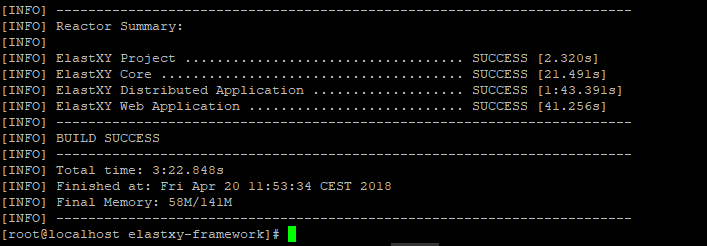
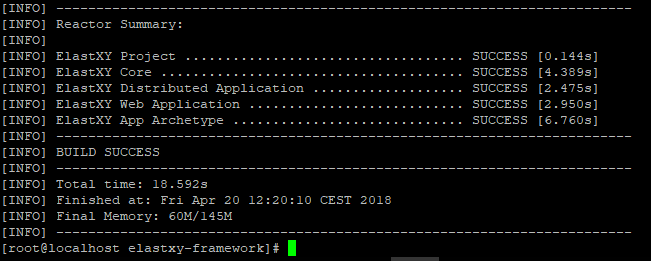
Minor fixes to tutorial.

Changed region(s): [[0.0, 0.0, 0.9831, 0.9959], [0.553, 0.9675, 0.6759, 1.0]]

diff --git a/tutorials.md b/tutorials.md
@@ -36,12 +36,11 @@ It'll take a while, as there are many dependencies for enabling all framework fe
 
 Now you should have all ElastXY artifacts in your local Maven repo. Congratulations! :)
 
-(And maybe you already spotted an ASCII representations of system evolution as long as tests were executed..)
 
 ## Single Colony Tutorial
 *Approx time: 10-15'*
 
-### Build your own local StartApp
+### Build your own local first app: MathXY
  
 The example will show you a simple showcase `Application`, and how to create your own project for a local (non distributed) env.
 
@@ -57,7 +56,7 @@ You can start defining your own by creating a Maven project from a blueprint by 
 
 `mvn archetype:generate -DarchetypeGroupId=org.elastxy -DarchetypeArtifactId=elastxy-app-archetype -DarchetypeVersion=0.1.0-SNAPSHOT`
 
-When prompted, insert "com.acme" as groupId and "ElastXYApp" as artifactId, leaving default package and version.
+When prompted, insert "com.acme" as groupId and "MathXY" as artifactId, leaving default package and version (by always hitting Enter).
 
 Now you should see a simple Maven project structure, bundling an initial example `Application`.
 
@@ -85,24 +84,26 @@ And, of course you can start playing with other parameters around, if you please
 
 The `Experiment` is where the execution `Environment` resides, controls program flow until ended, and returns outcomes as `Results` and `ExperimentStats`.
 
-It's time to build and test an execution: let's look it at work! Type:
+It's time to build and test an execution: let's look it at work!
+
+Please enter in the root directory of your app project (let's say 'MathXY' directory), and type:
 
 ```mvn test```
 
 Application is bootstrapped and launched:
 ```
-23:45:50.200 [main] INFO ... .AppBootstrap - Applications found: [StartApp]
-23:45:50.200 [main] INFO ... .AppBootstrap - >> Bootstrapping application 'StartApp'
+23:45:50.200 [main] INFO ... .AppBootstrap - Applications found: [MathXY]
+23:45:50.200 [main] INFO ... .AppBootstrap - >> Bootstrapping application 'MathXY'
 23:45:50.200 [main] INFO ... .AppBootstrap -    Building components..
 23:45:50.225 [main] INFO ... .AppBootstrap -    Wiring components..
 23:45:50.225 [main] INFO ... .AppBootstrap -    Initializing components..
-23:45:50.226 [main] INFO ... .AppBootstrap -    Welcome to 'StartApp' application! <!!!>o
+23:45:50.226 [main] INFO ... .AppBootstrap -    Welcome to 'MathXY' application! <!!!>o
 23:45:50.226 [main] INFO ... .AppBootstrap - Bootstrap ElastXY DONE.
 ```
 
 ### Step 4: See the results
 
-After about 3" execution, you will notice an output similar to this one, much depending on how much you were lucky:
+After at most 3" execution, you will notice an output similar to this one, much depending on how much you were lucky:
 ```
 [1] elastxy>         |0---10---20---30---40---50---60---70---80---90---100
 [1] elastxy>        1|--------------------------------------------------- | 0.9999999945 |SOL:Ge[[(P:0,M:operand)-158441, (P:1,M:operator)+, (P:2,M:operand)387971]] > Ph[(NumberPhenotype) 229530] > F[Value: 0.99999999453000128545, Check: true]
@@ -124,20 +125,20 @@ Basically, ElastXY is saying:
 > 
 > 582896 + (-346896) = 235000
 
-This is your first ElastXY `Application`! Good job! :sparkles:
+This is your first ElastXY `Application`! Good job! :D
 
 ### Bonus Step 5: Play with `Genes` metadata
 If you had a look to following file, you may have seen an interesting feature:
 
 `src/main/resources/genes.json`
 
-Representation of this problem schemata* is entirely based on metadata: for example, you can see definition of genes composing the chromosomes as two user-defined type: "operand" and "operator".
+Representation of this problem schemata [\*] is entirely based on metadata: for example, you can see definition of genes composing the chromosomes as two user-defined type: "operand" and "operator".
 
 If you reduce available operators `Gene` to "*" and "\\" and relaunch the execution, you may notice how it's more difficult the job, even converging.
 
-`mvn test`
+```mvn test```
 
-**: schemata are minimal evolving genetic material strings the algorithm is based on, typically group of genes, like chromosomes*
+[\*]: schemata are minimal evolving genetic material strings the algorithm is based on, typically group of genes, like *chromosomes*
 
 ## Multi Colony Tutorial
 *Approx time: 20-30'*
